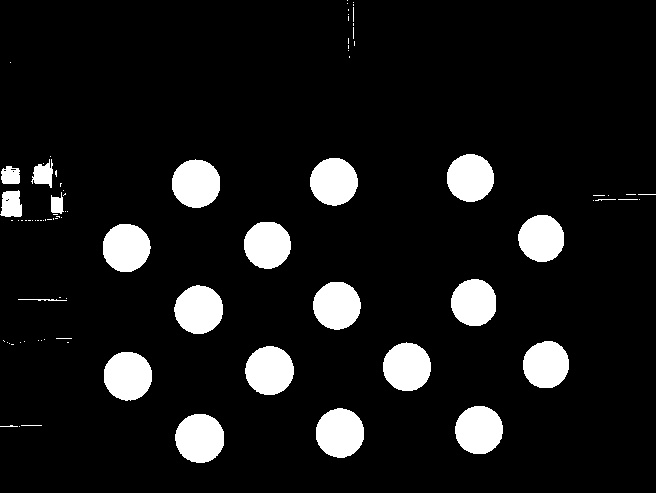
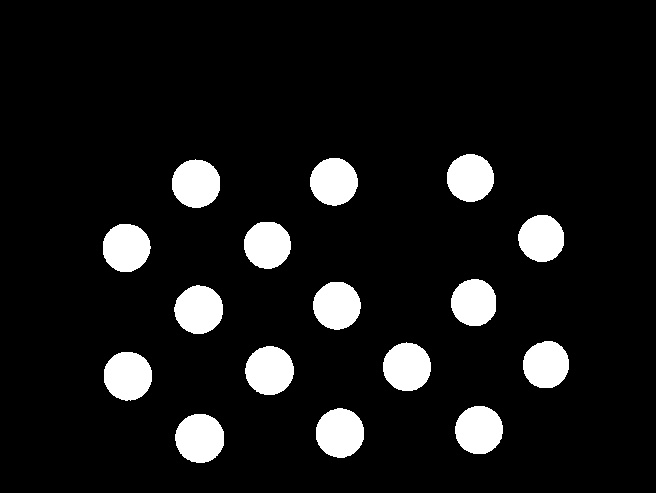
Have done big changes to getBoth.py and have worked out better red filter. Also have been bussy with a cropped version of the image, see DoBoard.py

Changed region(s): [[0.0, 0.3347, 0.122, 0.4564]]

diff --git a/VisionCode/getBothCircles.py b/VisionCode/getBothCircles.py
@@ -32,17 +32,38 @@ def main():
 #HSV. H: Hue, S: Saturation, V: Value
 #lower_red lowest values.	H:  0, S:90, V:0
 #upper_red highest values	H:20, S:255, V:255
-	lower_red = np.array([0, 80,0])
-	upper_red = np.array([18, 255,255])
+	lower_red = np.array([0, 71,0])
+	upper_red = np.array([15, 255,255])
+
+        lower_red2 = np.array([177, 0, 0])
+        upper_red2 = np.array([255, 255, 255])
 #lower_yellow lowest values H: 20, S:190, V: 20
 #upper_yellow lowest values H: 30, S:255, V:255
 	lower_yellow = np.array([20,190,20])
 	upper_yellow = np.array([30,255,255])
 #apply the filter ranges
-	mask_red	= cv.inRange(hsv, lower_red, upper_red)
+	mask_red_low	= cv.inRange(hsv, lower_red, upper_red)
+        mask_red_high   = cv.inRange(hsv, lower_red2, upper_red2)
 	mask_yellow = cv.inRange(hsv, lower_yellow, upper_yellow)
+#output masks
+    	#out_red 	= mask_red_low
+	out_red = cv.add(mask_red_low, mask_red_high)
+        out_yellow 	= mask_yellow
+#erode
+        kernel = np.ones((5,5), np.uint8)
+        red_erode = cv.erode(out_red, kernel, iterations = 4)
+        yellow_erode = cv.erode(out_yellow, kernel, iterations = 4)
+        for i in range(5): 
+                red_erode = cv.dilate(red_erode, kernel, iterations = 1)
+                red_erode = cv.bitwise_and(red_erode, out_red, mask = out_red)
+                yellow_erode = cv.dilate(yellow_erode, kernel, iterations = 1)
+                yellow_erode = cv.bitwise_and(yellow_erode, out_yellow, mask = out_yellow)
+#output mask for futher work
+        out_red     = red_erode
+        out_yellow  = yellow_erode
+        
 #show the color image with mask.
-	res_red 	= cv.bitwise_and(blur, blur, mask = mask_red)
+	res_red 	= cv.bitwise_and(blur, blur, mask = out_red)
 	res_yellow 	= cv.bitwise_and(blur, blur, mask = mask_yellow)
 #show image
 	cv.imshow("source", source)
@@ -51,8 +72,6 @@ def main():
 #	cv.imshow("rest-red", 		res_red)
 #	cv.imshow("rest-yellow", 	res_yellow)
 	
-	out_red 	= mask_red
-	out_yellow 	= mask_yellow
 #save the black/white image of the board where only the RED disc are visible
 	save_red = "REDblackwhiteboard.jpg"
 	cv.imwrite(save_red, out_red)
@@ -78,7 +97,7 @@ def main():
 	src_y = cv.imread(save_yellow)	
 	img_y = cv.medianBlur(cv.cvtColor(src_y, cv.COLOR_BGR2GRAY), 5)
 	cimg_y = src_y.copy() # numpy function
-	circles2 = cv.HoughCircles(img_y, cv.HOUGH_GRADIENT, 1, 10, np.array([]), 100, 10, 20, 45)
+	circles2 = cv.HoughCircles(img_y, cv.HOUGH_GRADIENT, 1, 10, np.array([]), 100, 10, 20, 30)
 	# Check if circles have been found and only then iterate over these and add them to the image
 	if circles2 is not None and len(circles2): 
 		print(circles2)
@@ -100,8 +119,9 @@ def main():
 		array1 = read_circles(circles, 	index_red)
 		array2 = read_circles(circles2, index_yellow)
 #Show found circels and output on display
-	cv.imshow("detected circles red", 		cir_red)
+	cv.imshow("detected circles red", 	cir_red)
 	cv.imshow("detected circles yellow", 	cir_yellow)
+        cv.imshow("all", cv.add(cir_red, cir_yellow))
 	print_arrays(array1, array2, index_red, index_yellow)
 #End the program with ESC
 	while True:
@@ -110,6 +130,7 @@ def main():
 			break
 	cv.destroyAllWindows()
 
+#Functions ---------------------------------------------------------------------------
 def read_circles(a_circles, i):
 	data = [[0 for x in range(2)] for y in range(i)]
 	for j in range(i):

diff --git a/VisionCode/DoBoard.py b/VisionCode/DoBoard.py
@@ -1,0 +1,93 @@
+#!/usr/bin/python
+
+from __future__ import print_function
+
+import cv2 as cv
+import numpy as np
+import sys
+import os
+
+def main():
+        '''
+	This code will filter out the board and will take cirlces then.
+	'''
+	print(__doc__)
+
+	c_red = "red"
+	c_yellow = "yellow"
+
+	try:
+		fn = sys.argv[1]
+	except IndexError:
+		fn = "board.jpg"
+	source = cv.imread(fn)
+	print (source.shape)
+#Blur the image
+	blur = cv.medianBlur(source, 5)
+	blur = source
+#make a HSV image from the blurred picture
+	hsv = cv.cvtColor(blur, cv.COLOR_BGR2HSV)
+#HSV. H: Hue, S: Saturation, V: Value
+#lower_red lowest values.	H:  0, S:90, V:0
+#upper_red highest values	H:20, S:255, V:255
+	lower_blue = np.array([100, 0,0])
+	upper_blue = np.array([200, 255,255])
+        
+        mask_blue = cv.inRange(hsv, lower_blue, upper_blue)
+        res_blue = cv.bitwise_and(source, source, mask = cv.bitwise_not(mask_blue))
+        cv.imshow("source", source)
+        cv.imshow("mask", mask_blue)
+        cv.imshow("res", res_blue)
+
+        nonzero = cv.findNonZero(mask_blue)
+        #print (nonzero)
+        #print (nonzero[0][0][1])
+        start = start_board(nonzero, 10)
+        end = len(nonzero) -1
+        y_low   = nonzero[start][0][1]
+        y_high  = nonzero[end][0][1]
+        x_low   = nonzero[start][0][0]
+        x_high  = nonzero[end][0][0]
+        crop_img = source[y_low:y_high, x_low:x_high]
+        cv.imshow("crop", crop_img)
+        print(x_high)
+        print(y_high)
+
+        res_blue = crop_img
+        img = cv.cvtColor(res_blue, cv.COLOR_BGR2GRAY)
+#   img = cv.medianBlur(img, 5)
+        cimg = res_blue.copy() # numpy function
+
+        circles = cv.HoughCircles(img, cv.HOUGH_GRADIENT, 1, 10, np.array([]), 100, 30, 22, 35)
+
+# Check if circles have been found and only then iterate over these and add them to the image
+        if circles is not None and len(circles): 
+            print(circles)
+            a, b, c = circles.shape
+            for i in range(b):
+                cv.circle(cimg, (circles[0][i][0], circles[0][i][1]), circles[0][i][2], (0, 0, 255), 3, cv.LINE_AA)
+                cv.circle(cimg, (circles[0][i][0], circles[0][i][1]), 2, (0, 255, 0), 3, cv.LINE_AA)  # draw center of circle
+            output = cimg
+        cv.imshow("detected circles", output)
+
+#the end -----------------------------------------------
+	while True:
+		k = cv.waitKey(5) & 0xFF
+		if k == 27:
+			break
+	cv.destroyAllWindows()
+
+def start_board(nonzero, more):
+        more = 10
+        for i in range(5000):
+            x = nonzero[i][0][0] - more
+            y = nonzero[i][0][1]
+            for j in range(more*2):
+                if(x + j == y):
+                    print(nonzero[i][0])
+                    return i
+        print("Found nothing")
+        return 0
+
+if __name__ == '__main__':
+	main()

diff --git a/VisionCode/getRedCircles.py b/VisionCode/getRedCircles.py
@@ -29,18 +29,33 @@ if __name__ == '__main__':
 #HSV. H: Hue, S: Saturation, V: Value
 #lower_red lowest values
 #upper_red highest values
-	lower_red = np.array([0,175,125])
-	upper_red = np.array([255,220,220])
+    #0,175,125
+    #255,220,220
+        lower_red = np.array([0, 71 ,0])
+        upper_red = np.array([15, 255 ,255])
+        
+        mask_red_1 = cv.inRange(hsv, lower_red, upper_red)
+
+        lower_red = np.array([177, 0, 0])
+        upper_red = np.array([255, 255, 255])
 #apply the filter ranges
-	mask_red = cv.inRange(hsv, lower_red, upper_red)
+        mask_red_2 = cv.inRange(hsv, lower_red, upper_red)
+
+        #mask_red = cv.bitwise_and(blur, blur, mask = mask_red1)
+        mask_red3 = cv.bitwise_and(blur, blur, mask = mask_red_2)
 #show the color image with mask.
-	res_red = cv.bitwise_and(blur, blur, mask = mask_red)
+	res_red = cv.bitwise_and(blur, blur, mask = mask_red_1)
+        
+        res = cv.add(res_red, mask_red3)
 #show image
 	cv.imshow("source", source)
-	cv.imshow("mask-black/white", mask_red)
+	cv.imshow("mask-black/white", mask_red_1)
+        cv.imshow("mask-black/white2", mask_red_2)
 	cv.imshow("rest-color", res_red)
-	
-	out = mask_red
+        cv.imshow("hi" , res)
+
+	out = cv.add(mask_red_1, mask_red_2)
+        #out = mask_red_1
 #save the black/white image of the board where only the RED disc are visible
 	save = "REDblackwhiteboard.jpg"
 	cv.imwrite(save, out)

diff --git a/VisionCode/detectcircles.py b/VisionCode/detectcircles.py
@@ -28,7 +28,7 @@ def main():
 #   img = cv.medianBlur(img, 5)
     cimg = src.copy() # numpy function
 
-    circles = cv.HoughCircles(img, cv.HOUGH_GRADIENT, 1, 10, np.array([]), 100, 30, 20, 30)
+    circles = cv.HoughCircles(img, cv.HOUGH_GRADIENT, 1, 10, np.array([]), 100, 20, 22, 30)
 
     # Check if circles have been found and only then iterate over these and add them to the image
     if circles is not None and len(circles): 
@@ -40,15 +40,15 @@ def main():
         index = (i+1) 
     
 	output = cimg
-	array = read_circles(circles, index)
+	#array = read_circles(circles, index)
 #Output graphic
 	cv.imshow("detected circles", output)
 
-	if index > 41:
-		order_array(array, index)
-	print_circles(array, index)
+	#if index > 41:
+	#	order_array(array, index)
+	#print_circles(array, index)
 
-	make_grid(array)
+	#make_grid(array)
 
     cv.imshow("source", src)
     cv.waitKey(0)
